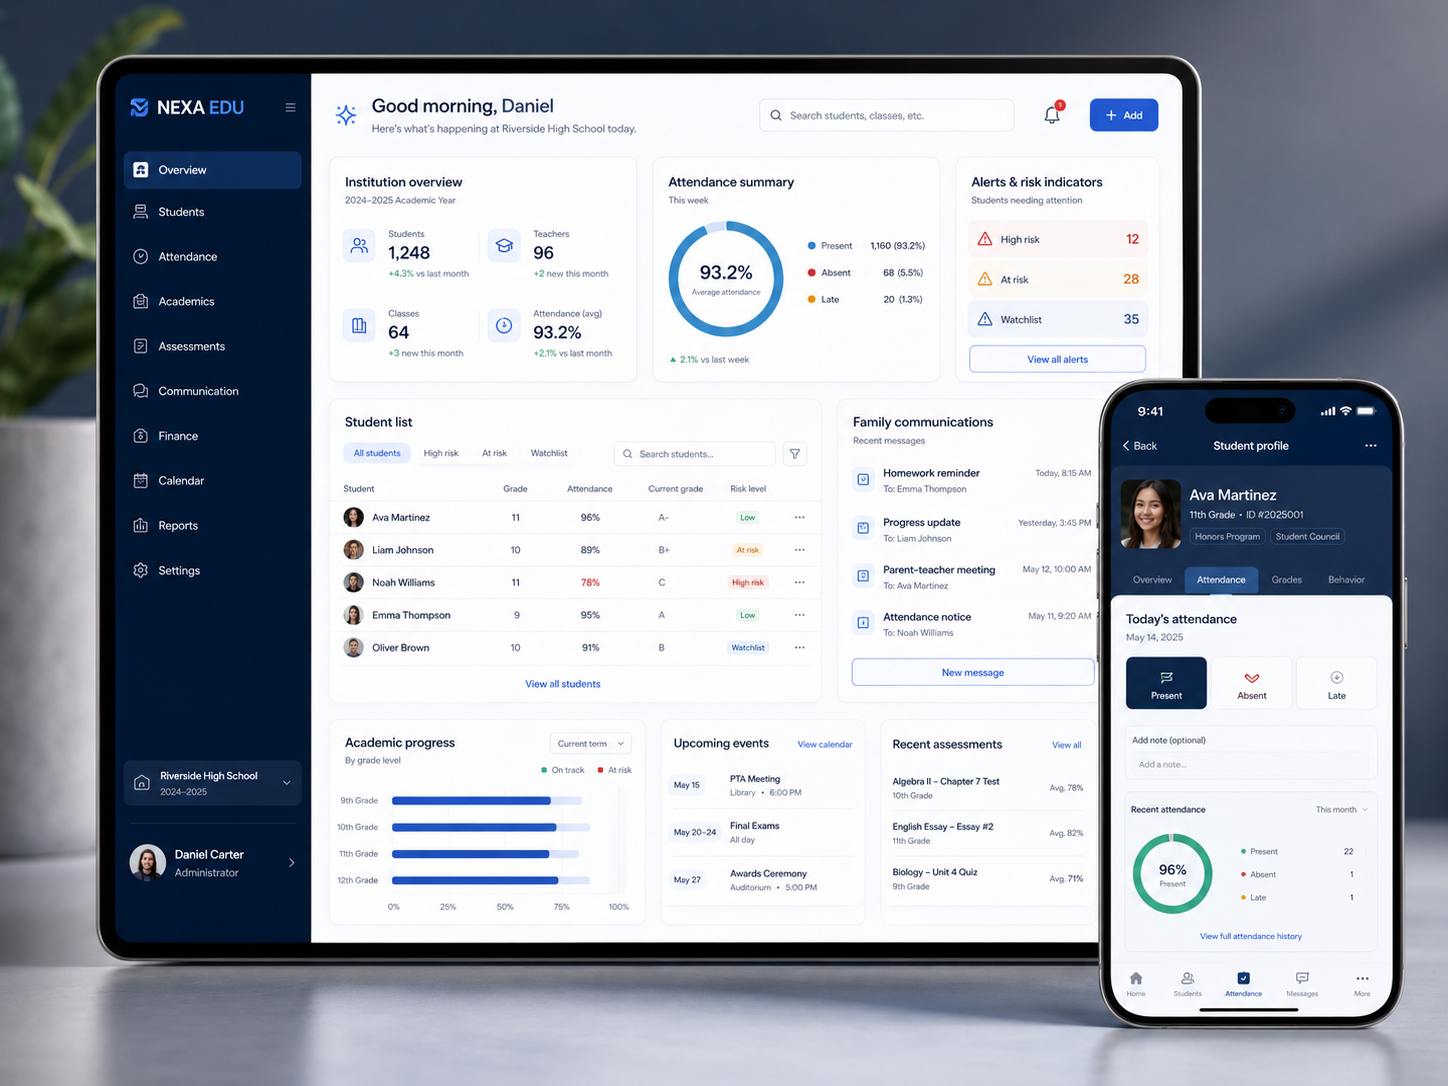
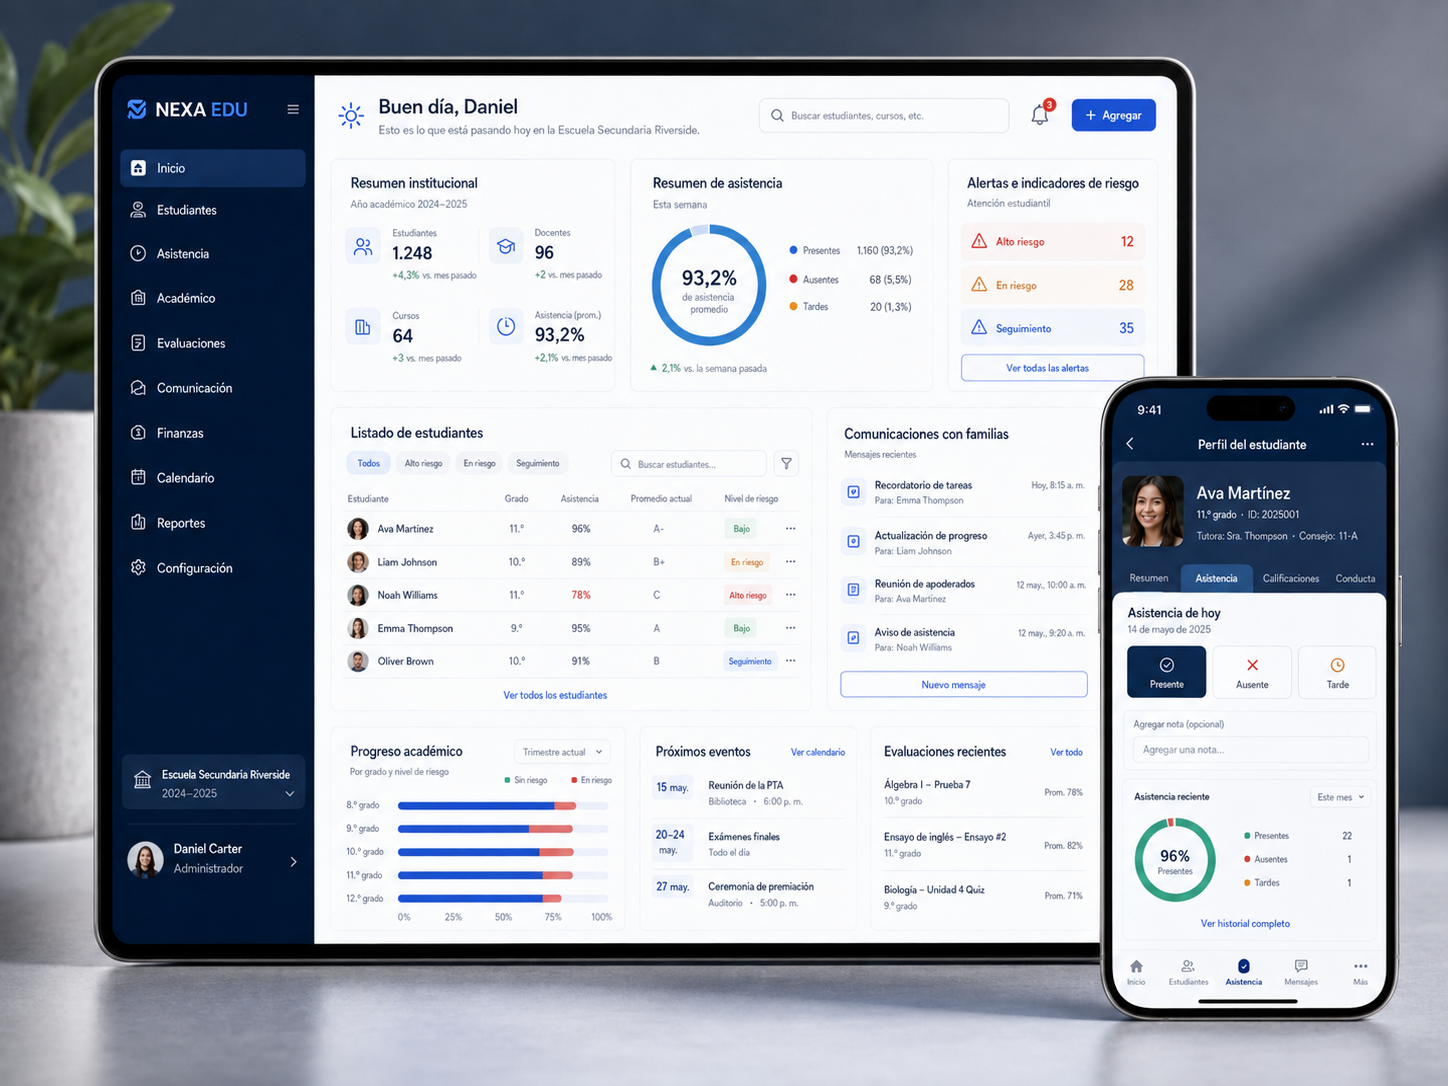
Actualizacion imagenes APPs Completo

diff --git a/index.html b/index.html
@@ -359,6 +359,8 @@
       content:"";position:absolute;left:14px;right:14px;bottom:16px;height:55%;border-radius:8px;
       background:linear-gradient(135deg,rgba(54,92,245,.08),rgba(54,92,245,.22))
     }
+    .screen-shot{width:100%;aspect-ratio:3/2;object-fit:cover;border-radius:12px;border:1px solid var(--line);display:block;background:#F3F5F7;transition:transform .25s ease}
+    .screen:hover .screen-shot{transform:scale(1.015)}
     .modal-foot{margin-top:32px;padding-top:28px;border-top:1px solid var(--line);display:flex;justify-content:space-between;gap:20px;align-items:center}
     .modal-foot p{color:var(--muted);max-width:620px;font-size:.88rem}
 
@@ -673,7 +675,7 @@
         solution:"MENTA organiza el proceso alrededor de cada paciente y permite al profesional visualizar evolución, compartir recursos, proponer tareas y leer registros sin convertir la terapia en una experiencia fría.",
         features:["Dashboard profesional","Ficha longitudinal del paciente","Registro emocional","Objetivos y tareas","Biblioteca de psicoeducación","Evolución y tendencias"],
         design:"Interfaz cálida, neutral y de baja fricción. Jerarquía clara, lenguaje no invasivo, panel profesional denso pero legible y experiencia móvil simplificada para el paciente.",
-        screens:["Dashboard profesional","Ficha del paciente","Registro emocional","Psicoeducación","Evolución"]
+        screens:[{name:"Dashboard profesional",image:"assets/screens/menta-dashboard.png"},{name:"Ficha del paciente",image:"assets/screens/menta-paciente.png"},{name:"Registro emocional",image:"assets/screens/menta-registro.png"},{name:"Psicoeducación",image:"assets/screens/menta-biblioteca.png"}]
       },
       nexa:{
         image:"assets/nexa.png",
@@ -684,7 +686,7 @@
         solution:"NEXA EDU centraliza los datos esenciales y prioriza alertas accionables. Cada perfil ve lo que necesita: equipos directivos, docentes, preceptores y familias.",
         features:["Dashboard institucional","Gestión de estudiantes","Asistencia y novedades","Comunicación con familias","Alertas de trayectoria","Perfiles y permisos"],
         design:"Sistema de alta densidad informativa con navegación clara, estados consistentes, filtros rápidos y foco en situaciones que requieren intervención.",
-        screens:["Dashboard institucional","Estudiantes","Asistencia","Comunicaciones","Alertas"]
+        screens:[{name:"Dashboard institucional",image:"assets/screens/nexa-dashboard.png"},{name:"Estudiantes",image:"assets/screens/nexa-estudiantes.png"},{name:"Asistencia",image:"assets/screens/nexa-asistencia.png"},{name:"Alertas",image:"assets/screens/nexa-alertas.png"}]
       },
       mesa:{
         image:"assets/mesa.png",
@@ -695,7 +697,7 @@
         solution:"MESA crea un flujo único: la reserva ocupa una mesa, la comanda llega a cocina, el pedido cambia de estado y la caja consolida todo para la gestión.",
         features:["Mapa de mesas","Reservas","Comandas","Kitchen Display","Caja","Métricas operativas"],
         design:"Interfaz de alto contraste para operación rápida, botones grandes, estados muy visibles y panel de gestión diferenciado del uso cotidiano en salón y cocina.",
-        screens:["Mapa de mesas","Reservas","Comandas","Cocina","Métricas"]
+        screens:[{name:"Mapa de mesas",image:"assets/screens/mesa-mesas.png"},{name:"Reservas",image:"assets/screens/mesa-reservas.png"},{name:"Comandas",image:"assets/screens/mesa-comandas.png"},{name:"Cocina",image:"assets/screens/mesa-cocina.png"}]
       },
       vesta:{
         image:"assets/vesta.png",
@@ -706,7 +708,7 @@
         solution:"VESTA vincula cada venta con el stock real, publica un catálogo actualizado y transforma consultas por WhatsApp en pedidos trazables.",
         features:["Stock por talle y color","Ventas","Catálogo público","Pedidos por WhatsApp","Clientes","Alertas de reposición"],
         design:"Dirección editorial, minimalista y orientada a producto. El panel prioriza variantes y disponibilidad sin sentirse como un ERP pesado.",
-        screens:["Stock y variantes","Ventas","Catálogo","Pedidos"]
+        screens:[{name:"Stock y variantes",image:"assets/screens/vesta-stock.png"},{name:"Ventas",image:"assets/screens/vesta-ventas.png"},{name:"Catálogo",image:"assets/screens/vesta-catalogo.png"},{name:"Pedidos",image:"assets/screens/vesta-pedidos.png"}]
       },
       aula:{
         image:"assets/aula.png",
@@ -717,7 +719,7 @@
         solution:"AULA concentra el trabajo operativo del docente en un espacio propio, rápido y adaptable a distintos cursos y materias.",
         features:["Cursos","Asistencia","Calificaciones","Planificación","Seguimiento de estudiantes","Recursos"],
         design:"Interfaz clara y funcional, con acciones frecuentes a un toque y vistas por curso que reducen navegación innecesaria.",
-        screens:["Cursos","Asistencia","Calificaciones","Planificación"]
+        screens:[{name:"Cursos",image:"assets/screens/aula-cursos.png"},{name:"Asistencia",image:"assets/screens/aula-asistencia.png"},{name:"Calificaciones",image:"assets/screens/aula-calificaciones.png"},{name:"Planificación",image:"assets/screens/aula-planificacion.png"}]
       },
       stayra:{
         image:"assets/stayra.png",
@@ -728,7 +730,7 @@
         solution:"STAYRA funciona como centro operativo: disponibilidad, reservas, huéspedes, cobros y housekeeping se actualizan sobre la misma información.",
         features:["Calendario de reservas","Habitaciones/unidades","Huéspedes","Pagos","Housekeeping","Indicadores de ocupación"],
         design:"Estética boutique y serena, combinada con un calendario operativo claro y suficiente densidad para administración diaria.",
-        screens:["Reservas","Disponibilidad","Huéspedes","Housekeeping"]
+        screens:[{name:"Reservas",image:"assets/screens/stayra-reservas.png"},{name:"Disponibilidad",image:"assets/screens/stayra-disponibilidad.png"},{name:"Huéspedes",image:"assets/screens/stayra-huespedes.png"},{name:"Limpieza",image:"assets/screens/stayra-limpieza.png"}]
       },
       habita:{
         image:"assets/habita.png",
@@ -739,7 +741,7 @@
         solution:"HABITA conecta inventario y CRM: cada consulta entra vinculada a una propiedad, se agenda la visita y queda visible el estado de la oportunidad.",
         features:["CRM de leads","Propiedades","Catálogo público","Agenda de visitas","Propietarios","WhatsApp"],
         design:"Visual premium y espacioso en el catálogo; panel interno más denso, orientado a pipeline, tareas y seguimiento comercial.",
-        screens:["Pipeline","Propiedades","Ficha de lead","Catálogo"]
+        screens:[{name:"Pipeline",image:"assets/screens/habita-pipeline.png"},{name:"Propiedades",image:"assets/screens/habita-propiedades.png"},{name:"Ficha de lead",image:"assets/screens/habita-lead.png"},{name:"Catálogo",image:"assets/screens/habita-catalogo.png"}]
       },
       turno:{
         image:"assets/turno.png",
@@ -750,7 +752,7 @@
         solution:"TURNO permite reservar online y ofrece al negocio una agenda operativa con clientes, servicios, profesionales, recordatorios e historial.",
         features:["Agenda","Reserva online","Servicios","Profesionales","Clientes","Recordatorios"],
         design:"Experiencia mobile-first para quien reserva y vista calendario de alta legibilidad para quien administra. El caso visual se presenta sobre una peluquería.",
-        screens:["Agenda","Reserva online","Clientes","Servicios"]
+        screens:[{name:"Agenda",image:"assets/screens/turno-agenda.png"},{name:"Reserva online",image:"assets/screens/turno-reserva.png"},{name:"Clientes",image:"assets/screens/turno-clientes.png"},{name:"Servicios",image:"assets/screens/turno-servicios.png"}]
       }
     };
 
@@ -765,10 +767,10 @@
     const modalScreens = document.getElementById("modalScreens");
     const modalImage = document.getElementById("modalImage");
 
-    function screenCard(name){
+    function screenCard(screen){
       return `<div class="screen">
-        <div class="screen-top"><h4>${name}</h4><span class="mini-dots"><i></i><i></i><i></i></span></div>
-        <div class="fake short"></div><div class="fake blue"></div><div class="fake-block"></div>
+        <div class="screen-top"><h4>${screen.name}</h4><span class="mini-dots"><i></i><i></i><i></i></span></div>
+        <img class="screen-shot" src="${screen.image}" alt="${screen.name}" loading="lazy" />
       </div>`;
     }
 
